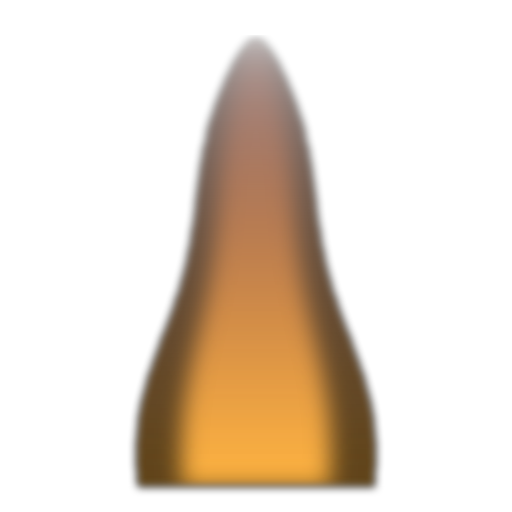
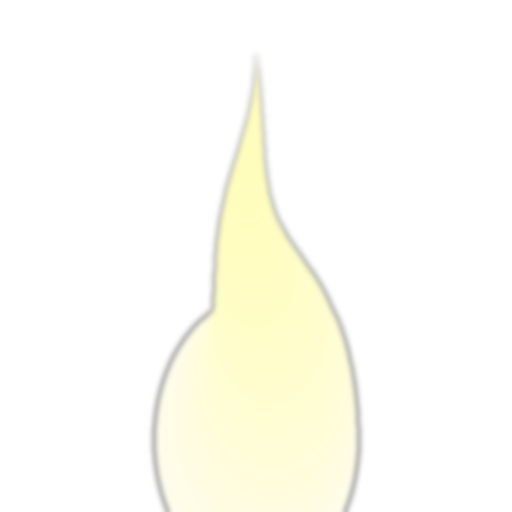
P0b: three-layer flame, localized head glow, embers from burnt trail, tighter ignition

Changed region(s): [[0.25, 0.0625, 0.75, 1.0]]

diff --git a/src/lib/flame.js b/src/lib/flame.js
@@ -1,19 +1,19 @@
-/**
- * 火焰头：贴图焰舌 + 一层暗底。
- * 暗底不是装饰：火焰压在明亮地表（黄土高原、雪线）时，没有暗底就读不出来。
+/**
+ * 火焰头：三层贴图叠出一团会抖的火。
+ * 外焰（橙、细长）、内焰（金）、核心（白黄、加法），外加一层暗底保证在亮地表上也读得出。
  */
 import { CanvasTexture, Group, Sprite, SpriteMaterial, TextureLoader } from 'three'
 
-function backingTexture() {
+function radialTexture(inner, mid, outer) {
   const s = 256
   const c = document.createElement('canvas')
   c.width = s
   c.height = s
   const ctx = c.getContext('2d')
   const g = ctx.createRadialGradient(s / 2, s / 2, 0, s / 2, s / 2, s / 2)
-  g.addColorStop(0, 'rgba(0, 0, 0, 0.72)')
-  g.addColorStop(0.55, 'rgba(0, 0, 0, 0.3)')
-  g.addColorStop(1, 'rgba(0, 0, 0, 0)')
+  g.addColorStop(0, inner)
+  g.addColorStop(0.55, mid)
+  g.addColorStop(1, outer)
   ctx.fillStyle = g
   ctx.fillRect(0, 0, s, s)
   return new CanvasTexture(c)
@@ -25,7 +25,7 @@ export function createFlame() {
 
   const back = new Sprite(
     new SpriteMaterial({
-      map: backingTexture(),
+      map: radialTexture('rgba(0,0,0,0.78)', 'rgba(0,0,0,0.34)', 'rgba(0,0,0,0)'),
       transparent: true,
       depthWrite: false,
       depthTest: false,
@@ -33,32 +33,52 @@ export function createFlame() {
   )
   back.renderOrder = 8
 
-  const tex = new TextureLoader().load(`${import.meta.env.BASE_URL}flame.png?v=6`)
-  const material = new SpriteMaterial({
-    map: tex,
-    transparent: true,
-    depthWrite: false,
-    depthTest: false,
-  })
-  const sprite = new Sprite(material)
-  sprite.renderOrder = 9
+  const tex = new TextureLoader().load(`${import.meta.env.BASE_URL}flame.png?v=7`)
 
-  group.add(back, sprite)
+  const outer = new Sprite(
+    new SpriteMaterial({ map: tex, color: 0xff6a1a, transparent: true, depthWrite: false, depthTest: false }),
+  )
+  outer.renderOrder = 9
+
+  const mid = new Sprite(
+    new SpriteMaterial({ map: tex, color: 0xffb257, transparent: true, depthWrite: false, depthTest: false, blending: 2 }),
+  )
+  mid.renderOrder = 10
+
+  const core = new Sprite(
+    new SpriteMaterial({
+      map: radialTexture('rgba(255,246,214,0.95)', 'rgba(255,176,64,0.55)', 'rgba(255,110,20,0)'),
+      transparent: true,
+      depthWrite: false,
+      depthTest: false,
+      blending: 2,
+    }),
+  )
+  core.renderOrder = 11
+
+  group.add(back, outer, mid, core)
 
   return {
     mesh: group,
     update(time, size) {
       const f1 = Math.sin(time * 13.7)
       const f2 = Math.sin(time * 23.1 + 1.7)
-      const k = 1 + f1 * 0.05 + f2 * 0.04
-      sprite.scale.set(size * 1.0 * k, size * 1.3 * k, 1)
-      back.scale.set(size * 1.5 * k, size * 1.6 * k, 1)
-      material.opacity = 0.9 + f1 * 0.06
+      const f3 = Math.sin(time * 31.3 + 0.4)
+      const k = 1 + f1 * 0.06 + f2 * 0.05
+      outer.scale.set(size * 0.95 * k, size * 1.55 * k, 1)
+      mid.scale.set(size * 0.66 * k, size * 1.1 * k, 1)
+      core.scale.set(size * 0.42 * (1 + f3 * 0.12), size * 0.56 * (1 + f3 * 0.12), 1)
+      core.position.y = size * 0.16
+      back.scale.set(size * 1.35, size * 1.6, 1)
+      outer.material.opacity = 0.95
+      mid.material.opacity = 0.75 + f1 * 0.08
+      core.material.opacity = 0.8 + f3 * 0.12
     },
     dispose() {
       tex.dispose()
-      material.dispose()
+      outer.material.dispose()
+      mid.material.dispose()
+      core.material.dispose()
     },
   }
 }
-

diff --git a/src/lib/routeLine.js b/src/lib/routeLine.js
@@ -141,17 +141,17 @@ export function createRouteLine(globe, nodes) {
   geo.setPositions(flat)
 
   const coreMat = new LineMaterial({
-    linewidth: 3.6,
+    linewidth: 1.4,
     vertexColors: true,
     transparent: true,
     depthWrite: false,
   })
   // 鍏夋檿鏀跺緱寰堢揣锛氬彧鍦ㄧ伀澶撮檮杩戜寒锛岀儳杩囩殑鍦版柟涓嶅彂鍏?
   const glowMat = new LineMaterial({
-    linewidth: 11,
+    linewidth: 26,
     vertexColors: true,
     transparent: true,
-    opacity: 0.16,
+    opacity: 0.5,
     depthWrite: false,
     blending: AdditiveBlending,
   })
@@ -167,8 +167,10 @@ export function createRouteLine(globe, nodes) {
   const charBand = new Line2(geo, charMat)
   charBand.renderOrder = 2
 
+  const glowGeo = new LineGeometry()
+  glowGeo.setPositions(flat)
   const core = new Line2(geo, coreMat)
-  const glow = new Line2(geo, glowMat)
+  const glow = new Line2(glowGeo, glowMat)
   core.renderOrder = 4
   glow.renderOrder = 3
   core.frustumCulled = false
@@ -186,7 +188,7 @@ export function createRouteLine(globe, nodes) {
     size: 0.8,
     sizeAttenuation: true,
     transparent: true,
-    opacity: 0.34,
+    opacity: 0.55,
     depthWrite: false,
     alphaTest: 0.01,
   })
@@ -332,7 +334,21 @@ export function createRouteLine(globe, nodes) {
     for (let i = 0; i < samples.length; i += 1) {
       if (sArr[i] <= burnedS && burnTime[i] < 0) burnTime[i] = clock
     }
-    geo.setColors(colorArray(clock))
+    const cc = colorArray(clock)
+    geo.setColors(cc)
+    if (count > 1) {
+      const headS = sArr[count - 1]
+      const gc = new Float32Array(samples.length * 3)
+      for (let i = 0; i < samples.length; i += 1) {
+        const d = (headS - sArr[i]) / 0.05
+        if (d < 0 || d > 1) continue
+        const k = (1 - d) * (1 - d)
+        gc[i * 3] = cc[i * 3] * k
+        gc[i * 3 + 1] = cc[i * 3 + 1] * k
+        gc[i * 3 + 2] = cc[i * 3 + 2] * k
+      }
+      glowGeo.setColors(gc)
+    }
 
     if (count > 1) {
       headGroup.position.copy(samples[Math.min(samples.length - 1, count - 1)])
@@ -353,12 +369,13 @@ export function createRouteLine(globe, nodes) {
 
   const up = new Vector3()
   function spawnSparks(headPos, dt) {
-    let budget = Math.max(1, Math.round(dt * 110))
+    const base = pointAt(Math.max(0, burnedS * Math.random() * 0.96))
+    let budget = Math.max(1, Math.round(dt * 26))
     for (const p of sparks) {
       if (p.life > 0) continue
       if (budget <= 0) break
-      up.copy(headPos).normalize()
-      p.pos.copy(headPos)
+      up.copy(base).normalize()
+      p.pos.copy(base)
       // 鍚戞枩涓婃柟鎶涳細娌垮湴琛ㄥ垏鍚?+ 涓€涓悜涓婄殑鍒嗛噺
       p.vel.set(
         (Math.random() - 0.5) * 0.34,
@@ -413,7 +430,7 @@ export function createRouteLine(globe, nodes) {
     const dist = cam.position.distanceTo(_v)
     const fov = (cam.fov * Math.PI) / 180
     const h = (typeof window !== 'undefined' && window.innerHeight) || 1080
-    return dist * 2 * Math.tan(fov / 2) * (48 / h)
+    return dist * 2 * Math.tan(fov / 2) * (108 / h)
   }
 
   function animateHead(now, speed) {

diff --git a/src/components/EarthGlobe.vue b/src/components/EarthGlobe.vue
@@ -619,15 +619,16 @@ uniform float uBurn;`,
   float lit = (1.0 - smoothstep(uBurn - 0.06 + jitter, uBurn + 0.05 + jitter, tIgn)) * inCn * burnActive;
   // 波前：一圈亮金边，燃烧是"推过去"的，不是"整块变"
   float distToFront = abs(tIgn - uBurn + jitter);
-  float ring = (1.0 - smoothstep(0.0, 0.022, distToFront)) * smoothstep(0.35, 0.9, texture2D(uChina, vUv).r) * burnActive;
+  float ring = (1.0 - smoothstep(0.0, 0.05, distToFront)) * smoothstep(0.35, 0.9, texture2D(uChina, vUv).r) * burnActive;
   // 细密金点，像万家灯火
   float grain = smoothstep(0.55, 1.0, texture2D(uCrust, vUv * 26.0).r);
   vec3 gold = vec3(1.0, 0.78, 0.42);
 
   // 重生：不是烧黑，而是点亮 —— 保留地表纹理，整体提亮并偏暖
-  gl_FragColor.rgb = mix(gl_FragColor.rgb, gl_FragColor.rgb * 1.18 + gold * 0.12, lit * 0.42);
-  gl_FragColor.rgb += gold * ring * 0.7;
-  gl_FragColor.rgb += vec3(1.0, 0.86, 0.62) * grain * lit * 0.14;
+  gl_FragColor.rgb = mix(gl_FragColor.rgb, gl_FragColor.rgb * 1.30 + gold * 0.04, lit * 0.40);
+  gl_FragColor.rgb += gold * ring * 0.35;
+  gl_FragColor.rgb += vec3(1.0, 0.86, 0.62) * grain * lit * 0.26;
+  gl_FragColor.rgb += gold * (1.0 - smoothstep(0.0, 0.12, tIgn)) * lit * 0.16;
 }
 #include <dithering_fragment>`,
     )
